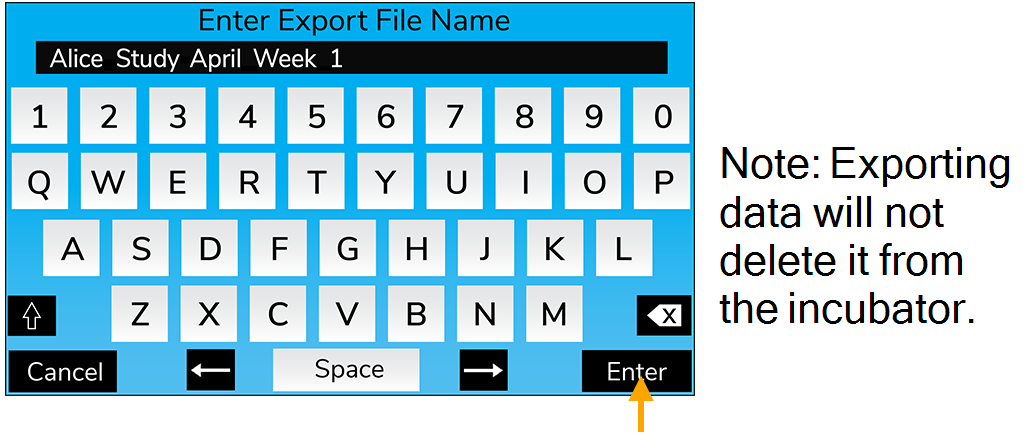
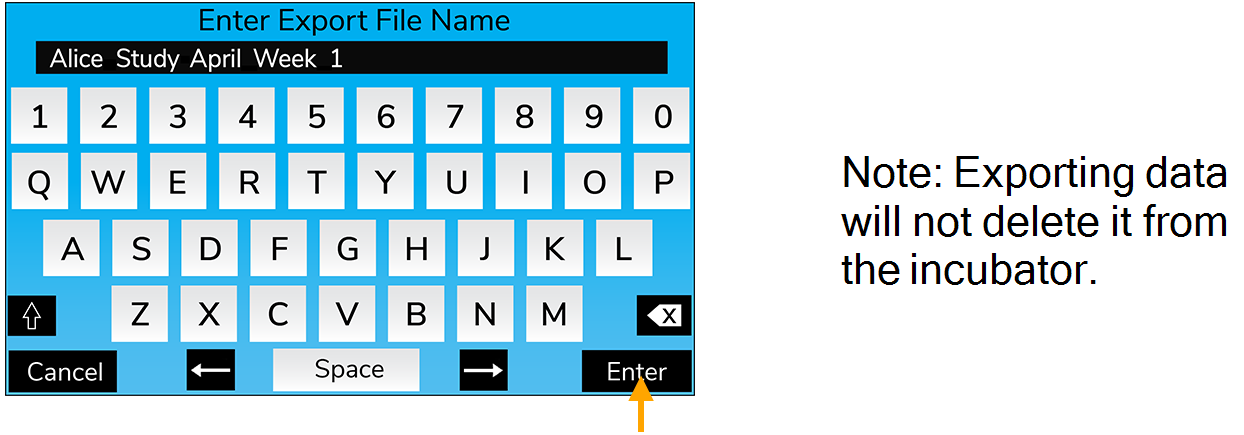
Updated graphics in the Export Data Log topic

diff --git a/Content/Resources/Topics/SL_Operation/Alarms.htm b/Content/Resources/Topics/SL_Operation/Alarms.htm
@@ -61,10 +61,10 @@
         <MadCap:snippetBlock src="../../Snippets/Operation/Load_Samples.flsnp" />
         <p>&#160;</p>
         <p>
-            <img src="../../Images/Power/Recept_CEE77_1-02_Man.png" MadCap:mediastyle="@media print { position: absolute;z-index: 0; }" style="float: left;padding-left: 0px;padding-right: 0px;padding-top: 0px;padding-bottom: 0px;border-left-style: solid;border-left-width: 1px;border-left-color: #000000;border-right-style: solid;border-right-width: 1px;border-right-color: #000000;border-top-style: solid;border-top-width: 1px;border-top-color: #000000;border-bottom-style: solid;border-bottom-width: 1px;border-bottom-color: #000000;left: 636px;top: 698px;" MadCap:conditions="Voltage.220V" />
+            <img src="../../Images/Power/Recept_CEE77_1-02_Man.png" MadCap:mediastyle="@media print { position: absolute;z-index: 0; }" style="float: left;padding-left: 0px;padding-right: 0px;padding-top: 0px;padding-bottom: 0px;border-left-style: solid;border-left-width: 1px;border-left-color: #000000;border-right-style: solid;border-right-width: 1px;border-right-color: #000000;border-top-style: solid;border-top-width: 1px;border-top-color: #000000;border-bottom-style: solid;border-bottom-width: 1px;border-bottom-color: #000000;left: 627px;top: 761px;" MadCap:conditions="Voltage.220V" />
         </p>
         <p>
-            <img src="../../Images/Power/Recept_5-15R_1-02_Man.png" MadCap:mediastyle="@media print { position: absolute;z-index: 0; }" style="float: left;border-left-style: solid;border-left-width: 1px;border-left-color: #000000;border-right-style: solid;border-right-width: 1px;border-right-color: #000000;border-top-style: solid;border-top-width: 1px;border-top-color: #000000;border-bottom-style: solid;border-bottom-width: 1px;border-bottom-color: #000000;padding-left: 0px;padding-right: 0px;padding-top: 0px;padding-bottom: 0px;left: 635px;top: 697px;" MadCap:conditions="Voltage.110V" />
+            <img src="../../Images/Power/Recept_5-15R_1-02_Man.png" MadCap:mediastyle="@media print { position: absolute;z-index: 0; }" style="float: left;border-left-style: solid;border-left-width: 1px;border-left-color: #000000;border-right-style: solid;border-right-width: 1px;border-right-color: #000000;border-top-style: solid;border-top-width: 1px;border-top-color: #000000;border-bottom-style: solid;border-bottom-width: 1px;border-bottom-color: #000000;padding-left: 0px;padding-right: 0px;padding-top: 0px;padding-bottom: 0px;left: 628px;top: 761px;" MadCap:conditions="Voltage.110V" />
         </p>
         <MadCap:snippetBlock src="../../Snippets/Operation/Accessory_Outlet.flsnp" />
         <MadCap:pageBreak />

diff --git a/Content/Resources/Topics/SL_Operation/Export_Data_Log.htm b/Content/Resources/Topics/SL_Operation/Export_Data_Log.htm
@@ -5,7 +5,7 @@
     </head>
     <body>
         <h2>Exporting the Data Log</h2>
-        <p>The incubator exports user-specified date ranges from the log as spreadsheet-readable .CSV files.<img src="../../Images/Units/Com_Ports_Oper_Exporting_Man.png" MadCap:mediastyle="@media print { position: absolute;z-index: 0; }" style="float: left;left: 576px;top: 110px;" /></p>
+        <p>The incubator exports user-specified date ranges from the log as spreadsheet-readable .CSV files.<img src="../../Images/Units/Com_Ports_Oper_Exporting_Man.png" MadCap:mediastyle="@media print { position: absolute;z-index: 0; }" style="float: left;width: 84px;height: 194px;left: 551px;top: 96px;" /></p>
         <p><b>1. Insert a USB A thumb drive in the incubator USB Port.</b>
         </p>
         <ul class="standard_list">
